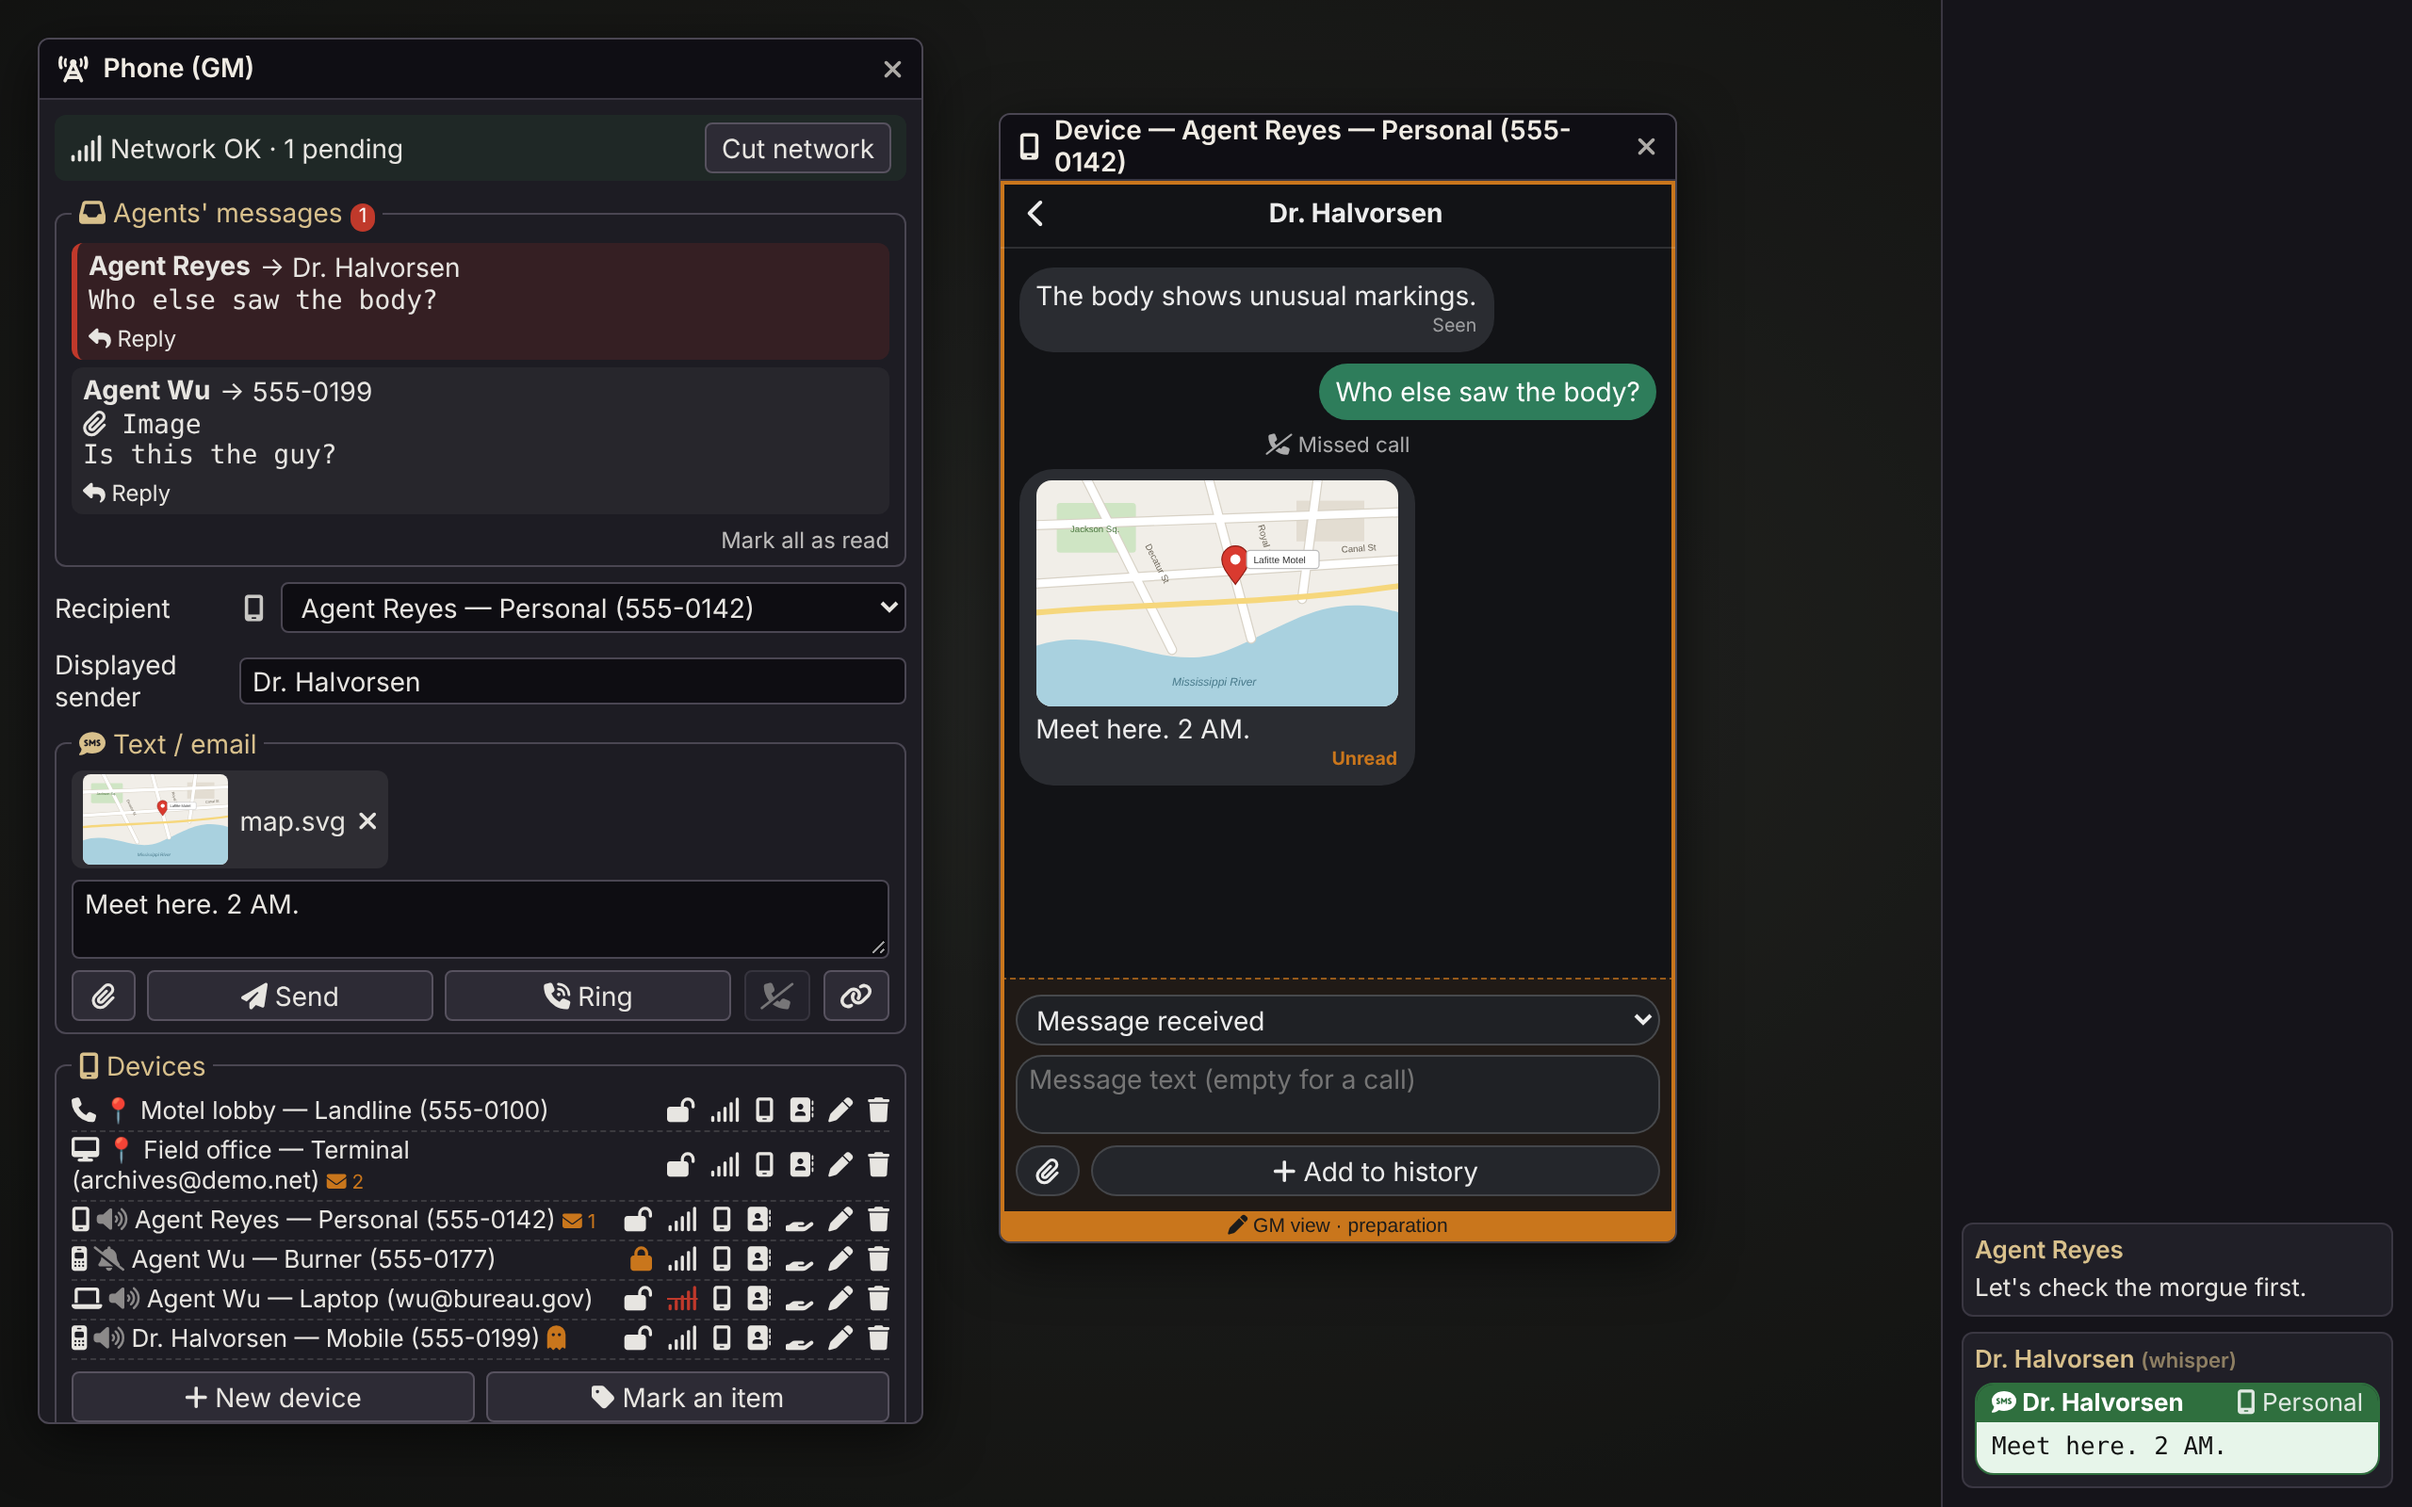
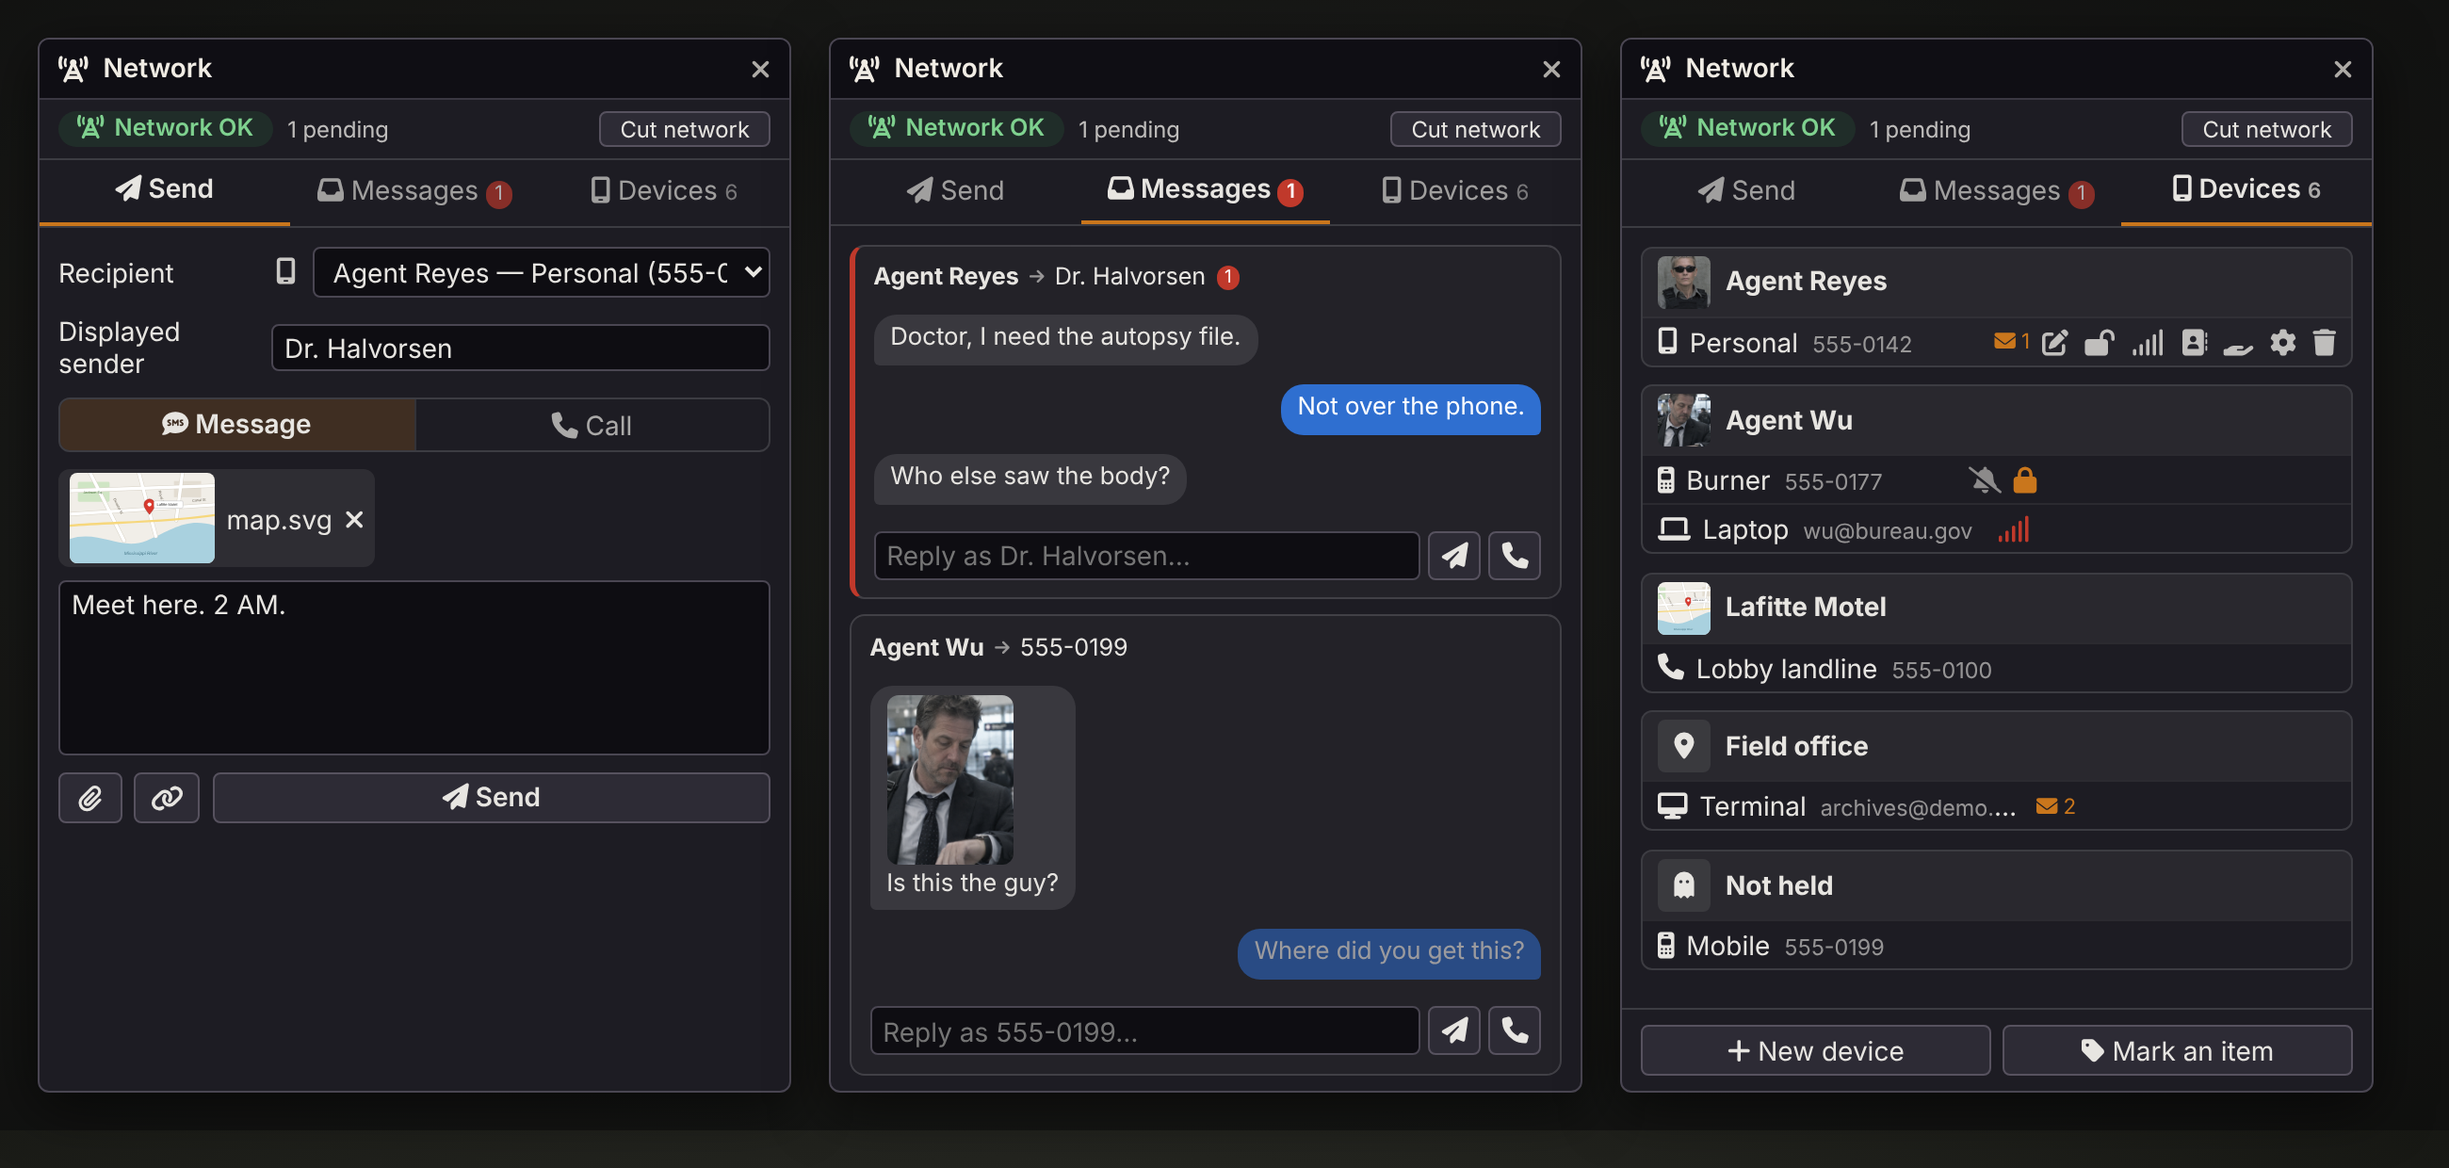
README: new GM panel

Changed region(s): [[0.0, 0.0306, 1.0, 0.9806]]

diff --git a/README.fr.md b/README.fr.md
@@ -135,7 +135,7 @@ Le MJ peut appeler un joueur ou lui envoyer un message (choisir le joueur dans *
 
 ### Un agent vers un PNJ
 
-- **Message** : il arrive dans la boîte « Messages des agents » du panneau MJ. « Répondre » pré-remplit la réponse.
+- **Message** : il arrive dans l'onglet **Messages** du panneau MJ, qui répond dans le fil.
 - **Appel** : le MJ entend la sonnerie et choisit l'issue : **Décrocher**, **Messagerie**, **Pas de réponse**, **Injoignable** ou **Numéro non attribué**.
 
 ### Entre agents
@@ -152,16 +152,15 @@ Le MJ peut appeler un joueur ou lui envoyer un message (choisir le joueur dans *
 
 ## Côté MJ
 
-### Le panneau MJ (Ctrl+Shift+P)
+### Le panneau MJ : Réseau (Ctrl+Shift+P)
 
-- Zone d'envoi : destinataire (avec l'icône du modèle), expéditeur, message ou appel, pièce jointe.
-- Boutons **Faire sonner**, **Raccrocher**, **Envoyer**, et 🔗 **Copier en lien** pour un journal.
-- Boîte **Messages des agents**.
-- Bascule **coupure générale du réseau mobile**.
-- Liste **Appareils**, défilante. Un clic sur un appareil le choisit comme destinataire. Pour chacun :
-  - icône du modèle, mode, porteur ou lieu (📍), nombre de messages non lus par le joueur ;
-  - signalements : numéro cloné, porté par personne ;
-  - actions : ouvrir et préparer l'historique, contacts, verrouiller, pas de réseau, donner à…, modifier, retirer.
+- Barre du haut : état du réseau, messages en attente, et bascule **Couper le réseau** mobile.
+- Onglet **Envoyer** : destinataire (avec l'icône du modèle), expéditeur affiché, puis **Message** ou **Appel**. Seul ce que le destinataire sait faire est proposé (pas de message vers une ligne fixe, pas d'appel vers un terminal). **Envoyer** ou **Faire sonner**, pièce jointe, et **Copier en lien** pour un journal.
+- Onglet **Messages** : un fil par agent et par PNJ, en bulles. Réponse directement sous le fil (Entrée envoie), ou rappel de l'agent.
+- Onglet **Appareils**, groupés par porteur (portrait du personnage) ou par lieu (vignette de la scène). Un clic sur un appareil le choisit comme destinataire. Pour chacun :
+  - icône du modèle, mode, nombre de messages non lus par le joueur ;
+  - signalements : numéro cloné, verrouillé, pas de réseau ;
+  - actions au survol : ouvrir et préparer l'historique, contacts, verrouiller, pas de réseau, donner à…, modifier, retirer.
 
 ### Préparer un appareil
 

diff --git a/README.md b/README.md
@@ -167,7 +167,7 @@ The GM can ring a player or send them a message (choose the player in **Recipien
 
 ### Agent to NPC
 
-- **Message:** it lands in the GM panel's **Agents' messages** inbox. **Reply** pre-fills the answer.
+- **Message:** it lands in the **Messages** tab of the GM panel, where the GM replies in the thread.
 - **Call:** the GM hears the ring and picks the outcome: **Answer**, **Voicemail**, **No answer**, **Unreachable** or **Not in service**.
 
 ### Agent to agent
@@ -187,16 +187,15 @@ The GM can ring a player or send them a message (choose the player in **Recipien
 
 ![GM panel](docs/gm.png)
 
-### The GM panel (Ctrl+Shift+P)
+### The GM panel: Network (Ctrl+Shift+P)
 
-- Send area: recipient (with the model's icon), displayed sender, message or call, attachment.
-- **Ring**, **Hang up**, **Send**, and **Copy as a link** to paste into a journal.
-- **Agents' messages** inbox.
-- **Cut network** toggle for the whole mobile network.
-- **Devices** list. Click a device to make it the recipient. For each one:
-  - model icon, mode, holder or place, number of messages the player hasn't read;
-  - flags: cloned number, held by nobody;
-  - actions: open and prepare history, contacts, lock, no signal, give to…, edit, remove.
+- Top bar: network status, pending messages, and a **Cut network** toggle for the whole mobile network.
+- **Send** tab: recipient (with the model's icon), displayed sender, then **Message** or **Call**. Only what the recipient can do is offered (no message to a landline, no call to a terminal). **Send** or **Ring**, attachment, and **Copy as a link** to paste into a journal.
+- **Messages** tab: one thread per agent and NPC, as chat bubbles. Reply right under the thread (Enter sends), or call the agent back.
+- **Devices** tab, grouped by holder (character portrait) or place (scene thumbnail). Click a device to make it the recipient. For each one:
+  - model icon, mode, number of messages the player hasn't read;
+  - flags: cloned number, locked, no signal;
+  - actions on hover: open and prepare history, contacts, lock, no signal, give to…, edit, remove.
 
 ### Preparing a device
 
